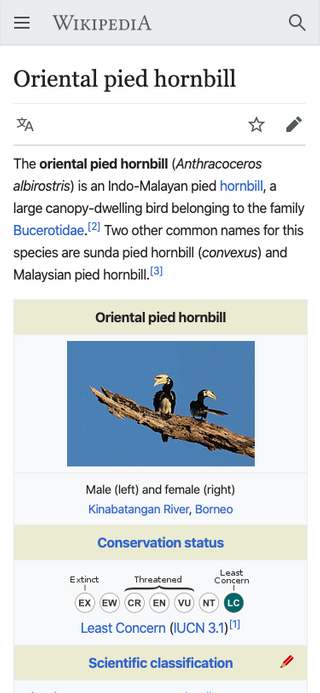
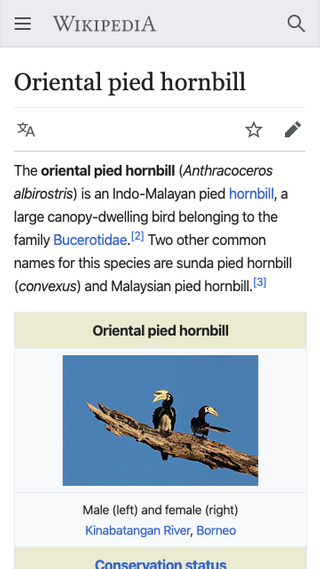
improve mobile screenshots on mobile display

diff --git a/screen.js b/screen.js
@@ -21,7 +21,7 @@ projects.forEach((p) => {
     console.log(`Building screenshot for ${url}`);
     (async () => {
         await new Pageres(options)
-            .src(url, [p.mobile ? '375x812' : '1920x1080' ],
+            .src(url, [p.mobile ? '360x640' : '1920x1080' ],
                 {filename, crop: true, script: p.script}
             )
             .dest(DIR)

diff --git a/public/index.css b/public/index.css
@@ -117,6 +117,8 @@ footer,
 
 .slideshow--projects img {
     margin: 0 auto;
+    max-width: 100%;
+    max-height: 200px;
     align-self: flex-start;
 }
 
